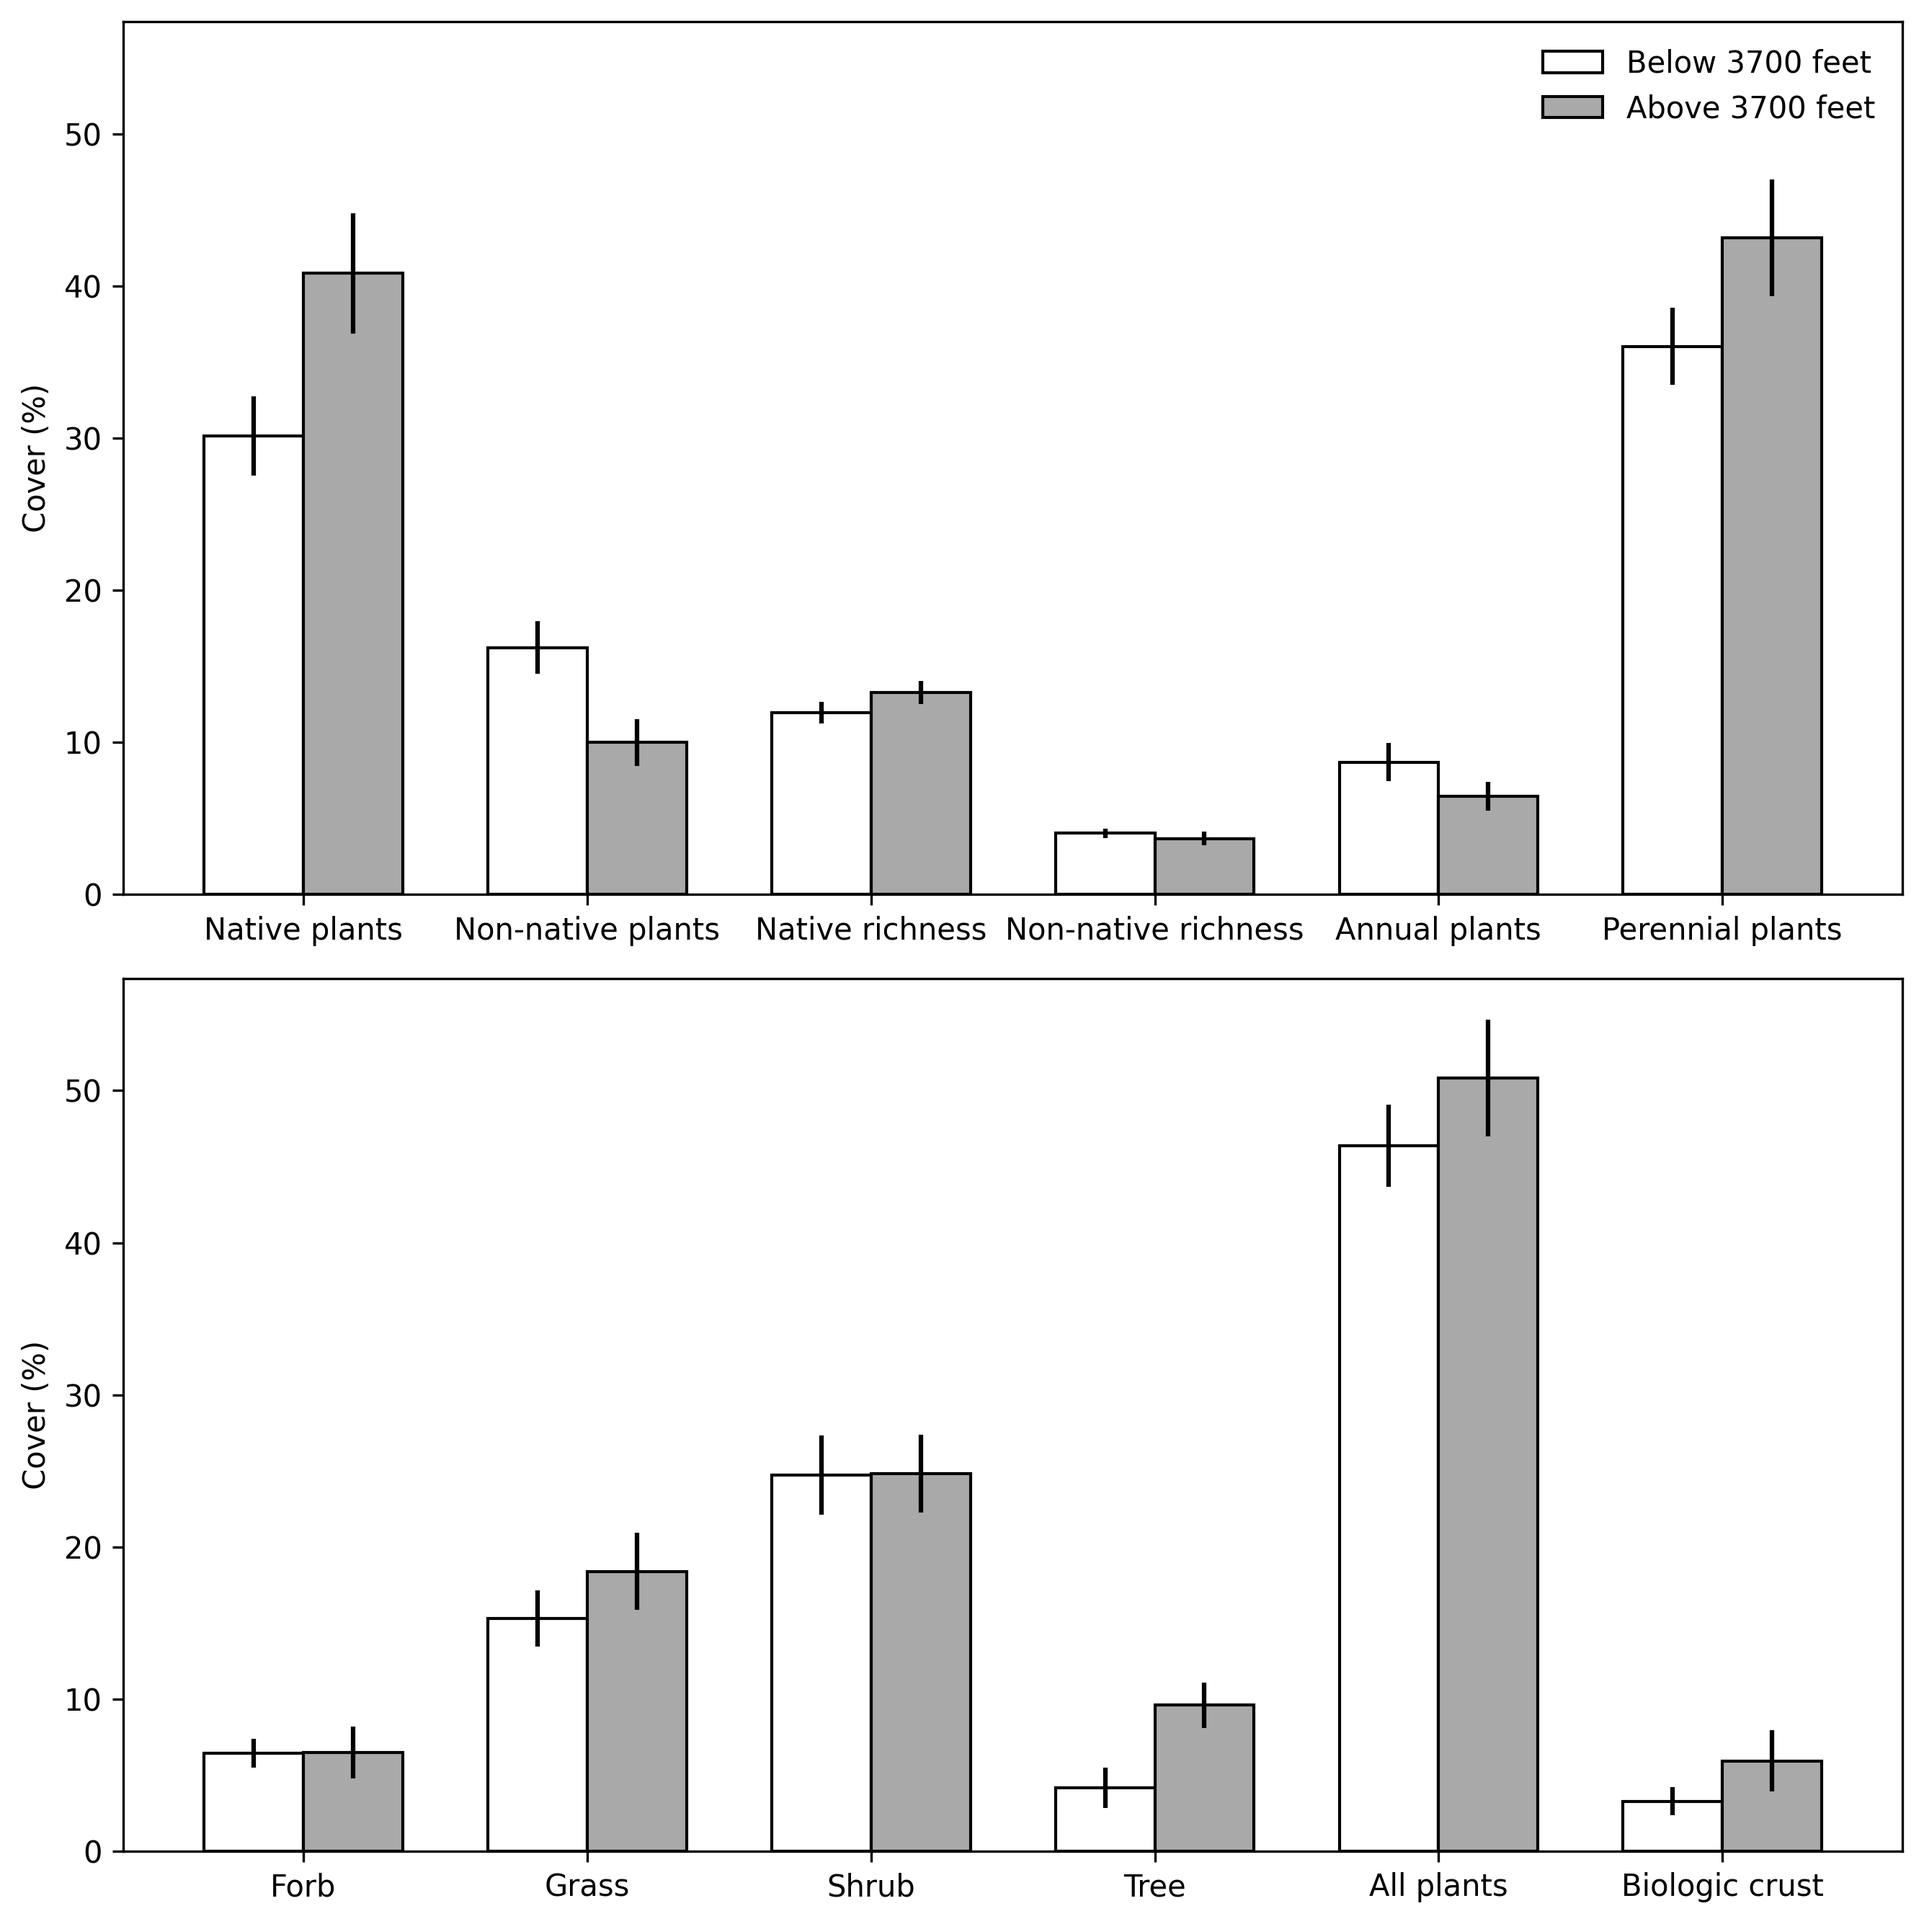
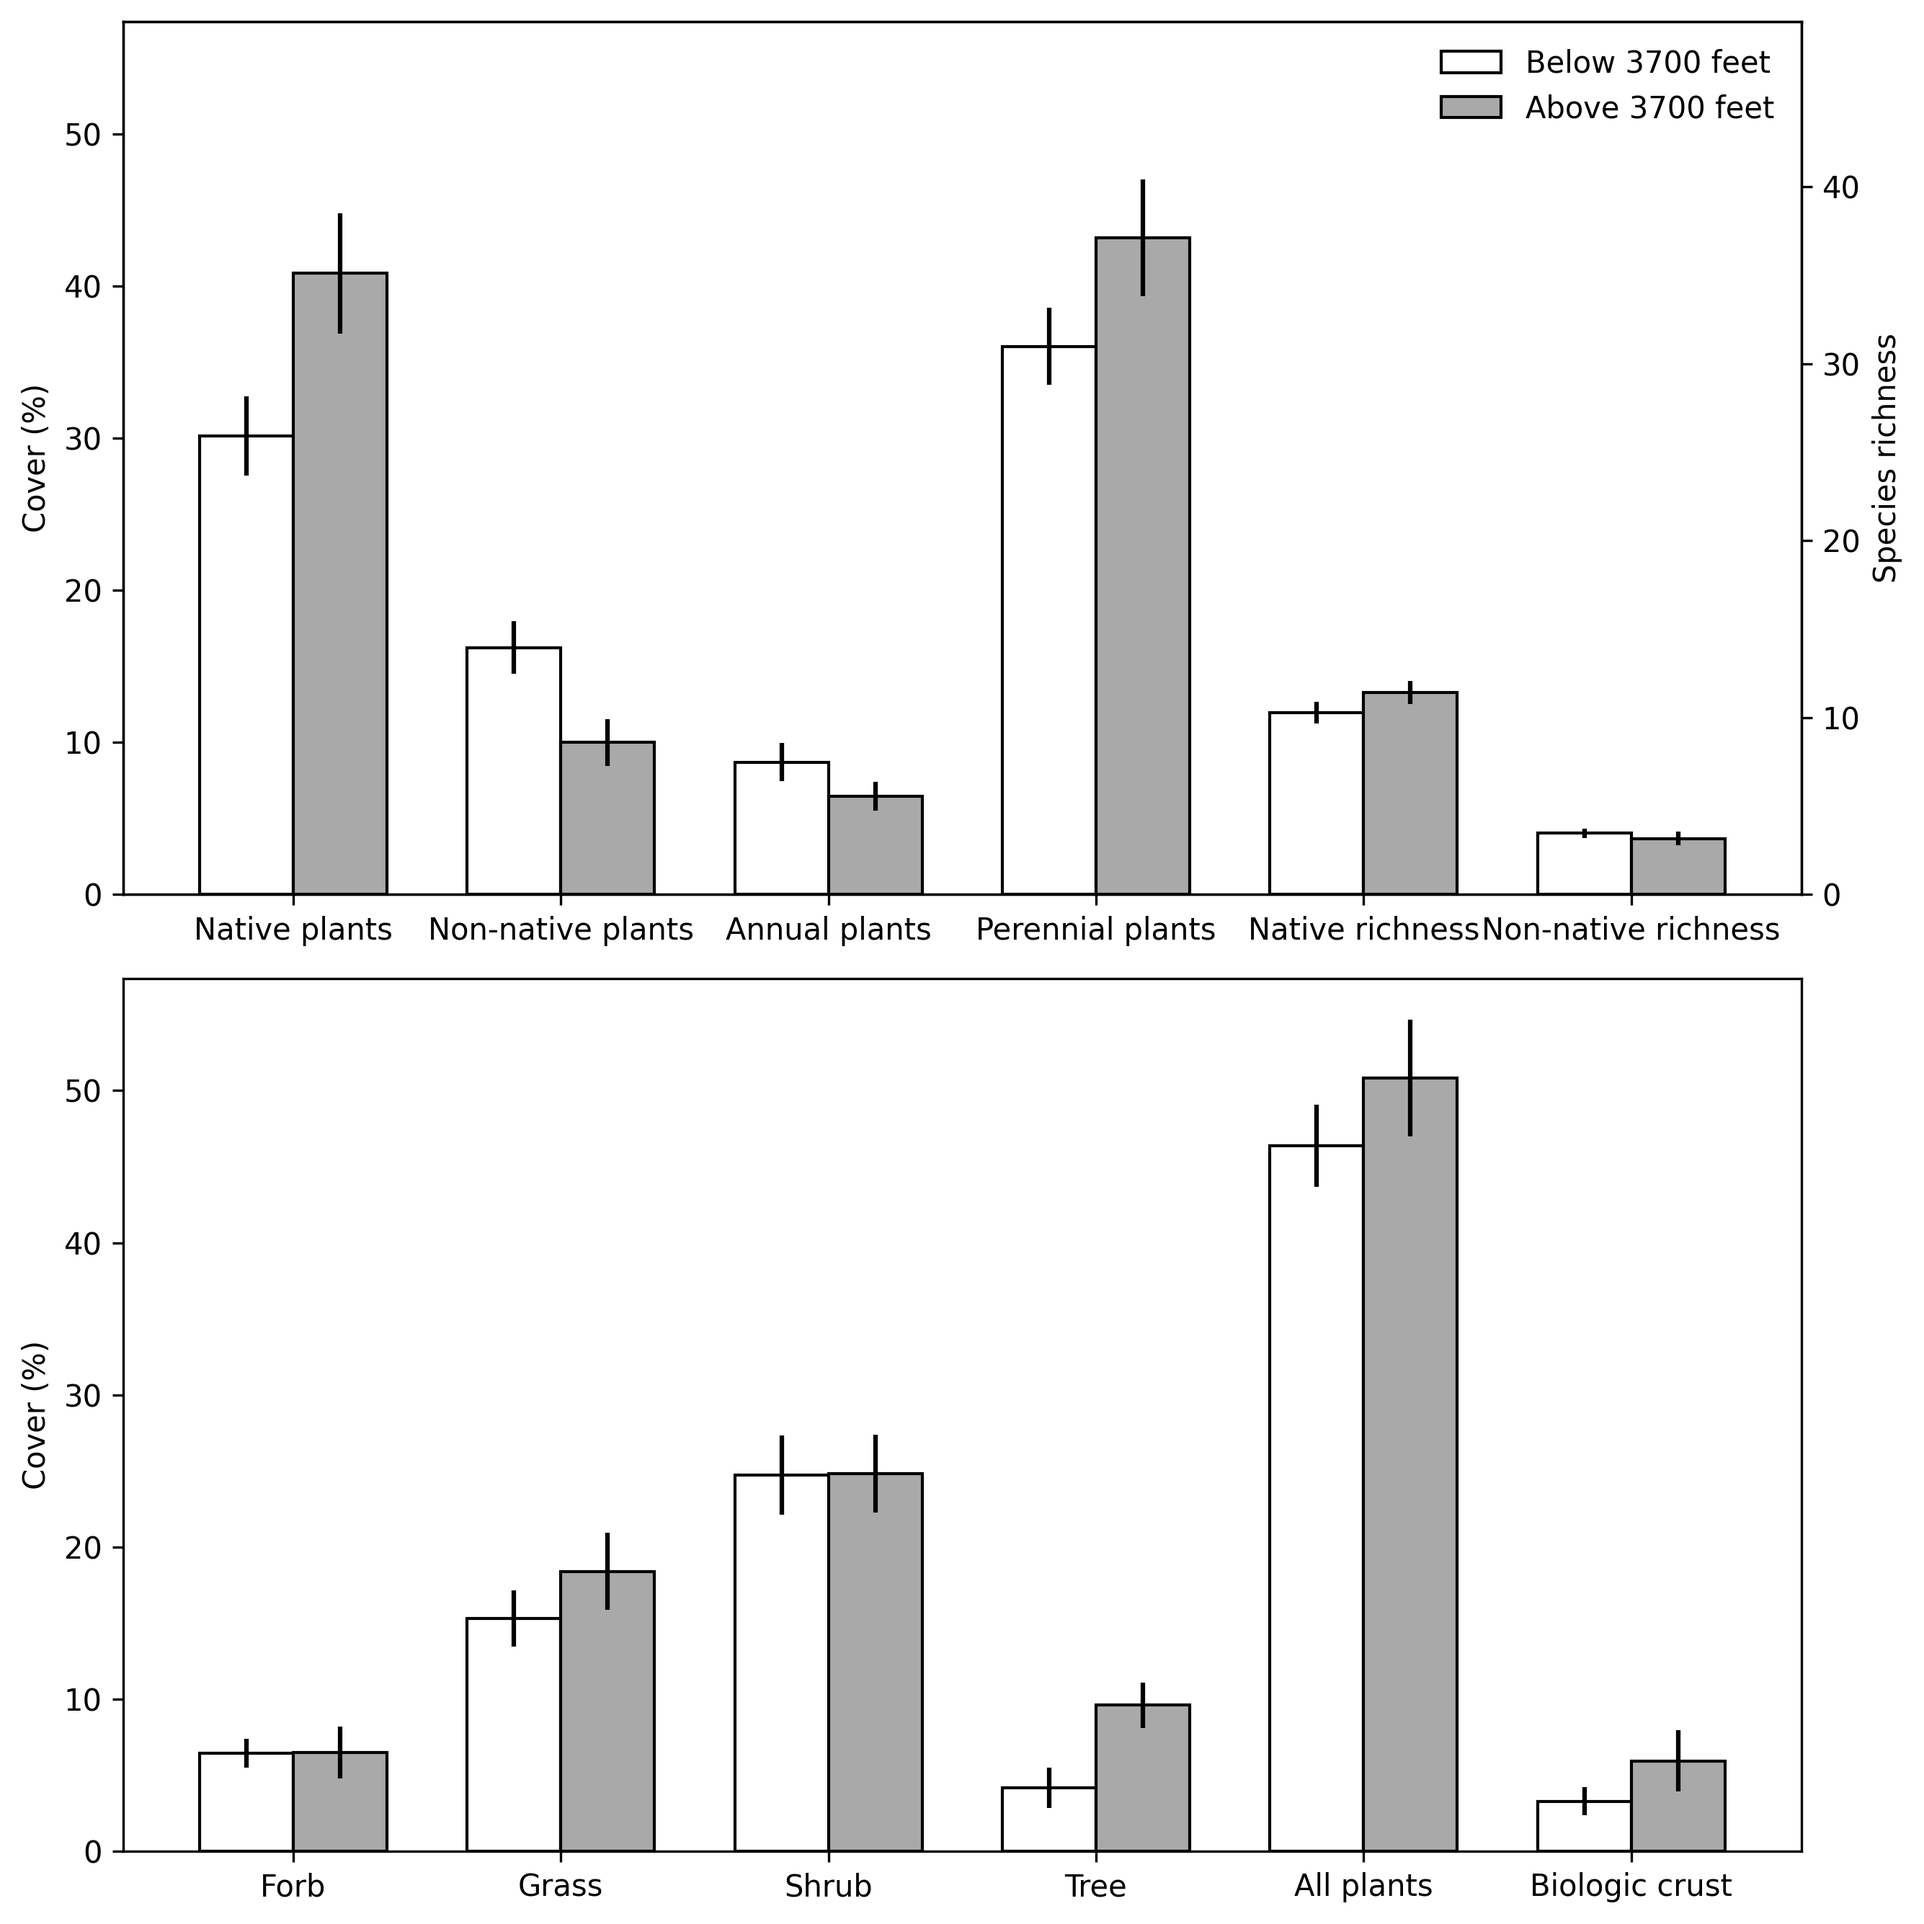
analysis_013026_evening

diff --git a/script/KW_ANOVA_ageclassn.py b/script/KW_ANOVA_ageclassn.py
@@ -153,7 +153,7 @@ for var in variables:
             test_used = "ANOVA (1-way)"
 
             # Posthoc: Tukey HSD (appropriate means test after ANOVA)
-            if np.isfinite(pval) and pval <= 0.05:
+            if np.isfinite(pval) and pval <= 0.1:
                 tuk = pairwise_tukeyhsd(endog=tmp["y"], groups=tmp["ageclassn_cat"], alpha=0.05)
                 posthoc_results[var] = pd.DataFrame(
                     tuk.summary().data[1:],
@@ -169,7 +169,7 @@ for var in variables:
 
             # Posthoc: pairwise Mann-Whitney U with BH-FDR (Dunn-like)
             # (Good, simple nonparametric "means test" analogue for pairwise differences)
-            if np.isfinite(pval) and pval <= 0.05:
+            if np.isfinite(pval) and pval <= 0.1:
                 posthoc_results[var] = dunn_posthoc_with_bh(sub, "ageclassn_cat", var)
 
     overall_results.append({

diff --git a/script/2panel.parameter.Fgroup.abv.blw.py b/script/2panel.parameter.Fgroup.abv.blw.py
@@ -23,10 +23,10 @@ metrics_top = ["native", "nonnative", "annual", "perennial", "nrich", "nnrich"]
 labels_top = [
     "Native plants",
     "Non-native plants",
-    "Native richness",
-    "Non-native richness",
     "Annual plants",
-    "Perennial plants"
+    "Perennial plants",
+    "Native richness",
+    "Non-native richness"
 ]
 
 grouped_top = df.groupby("ab")[metrics_top]
